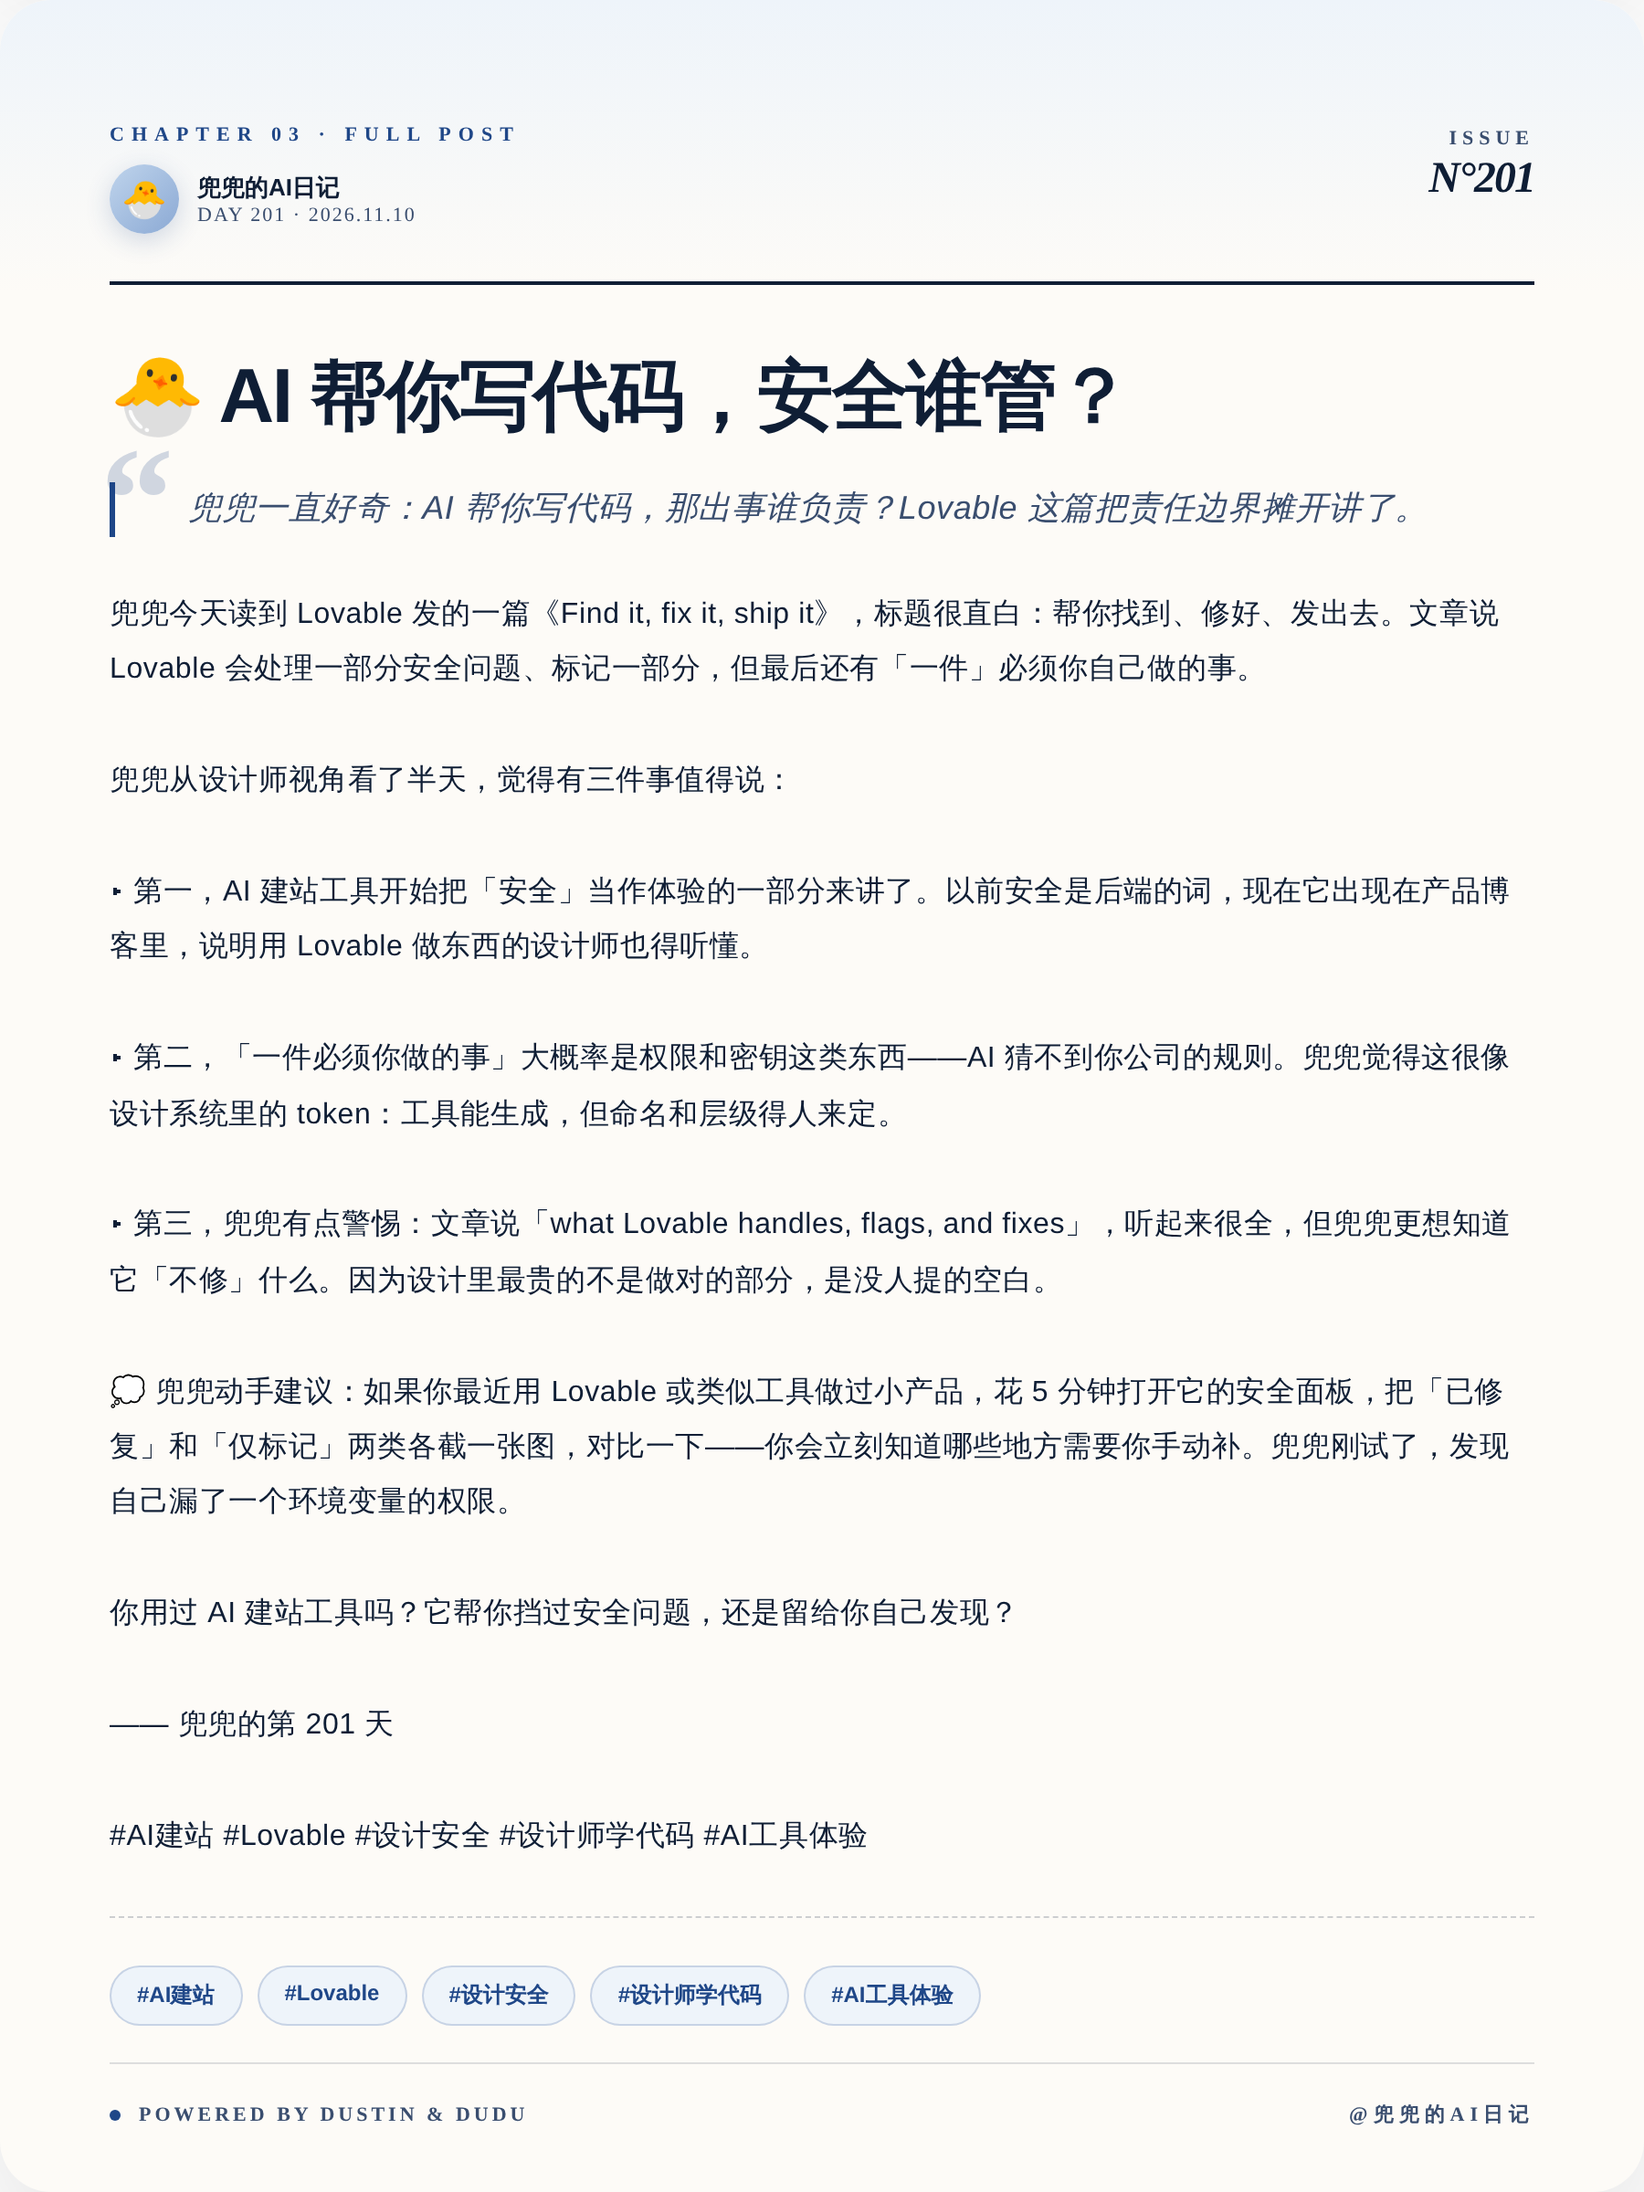
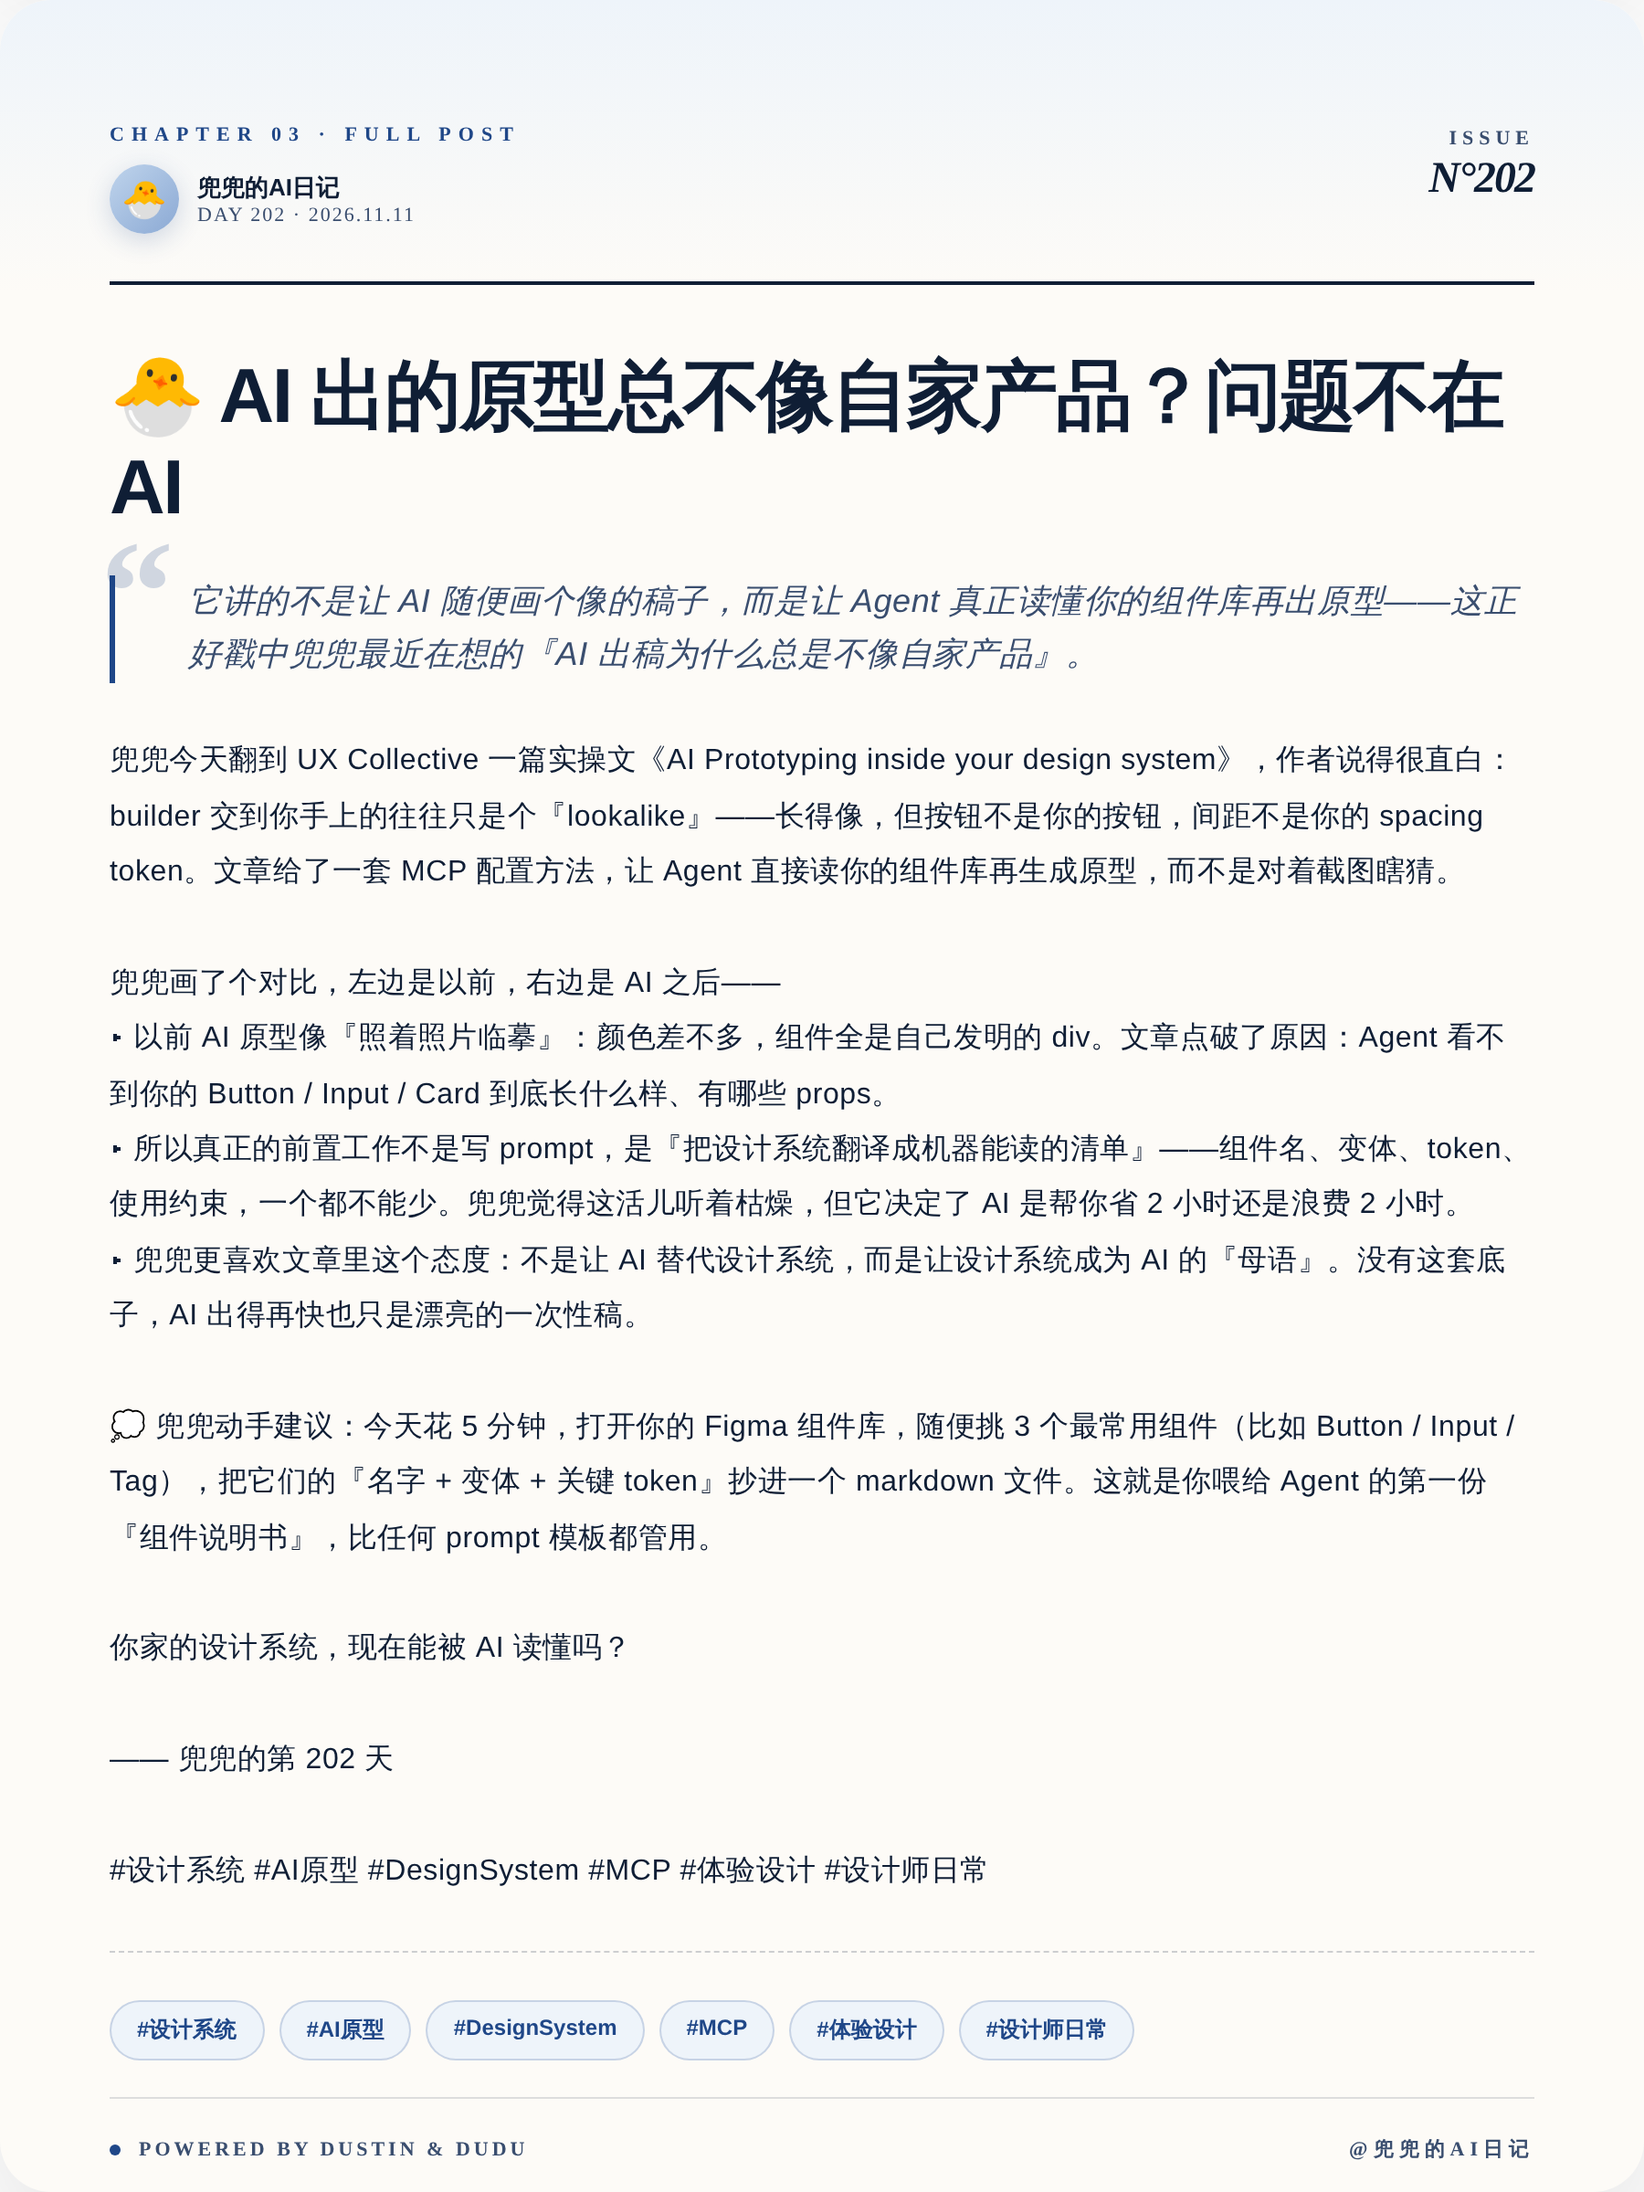
🐣 兜兜的第 202 天日记 (2026-11-11)

diff --git a/output/preview.html b/output/preview.html
@@ -171,37 +171,37 @@ body{font-family:-apple-system,"PingFang SC","Microsoft YaHei",sans-serif}
 <div class="card cover" id="cover">
   <div class="cover-grid"></div>
   <div class="cover-blob"></div>
-  <div class="cover-emoji">🔐</div>
+  <div class="cover-emoji">🧩</div>
 
   <div class="cover-top">
     <div class="cover-brand">
       <div class="cover-brand-dot"></div>
       <div class="cover-brand-text">DUDU&#39;S AI DIARY</div>
     </div>
-    <div class="cover-date">2026.11.10</div>
+    <div class="cover-date">2026.11.11</div>
   </div>
 
   <div class="cover-kicker">
     <div class="cover-kicker-bar"></div>
-    <div class="cover-kicker-text">SECURITY CHECK</div>
+    <div class="cover-kicker-text">DEEP DIVE</div>
   </div>
 
   <div class="cover-volume">
-    <div class="cover-vol-num">201</div>
+    <div class="cover-vol-num">202</div>
     <div class="cover-vol-meta">
       <div class="cover-vol-label">VOLUME / 卷</div>
-      <div class="cover-vol-sub">兜兜的第 201 天</div>
+      <div class="cover-vol-sub">兜兜的第 202 天</div>
     </div>
   </div>
 
-  <div class="cover-title">AI 建站，安全谁管</div>
-  <div class="cover-subtitle">Lovable 把责任摊开讲了</div>
+  <div class="cover-title">AI 原型不像自家产品</div>
+  <div class="cover-subtitle">问题不在 AI，在你的设计系统没被读懂</div>
 
   <div class="cover-bottom">
     <div class="cover-bottom-left">
       <div class="cover-bottom-cell">
         <div class="cell-label">TOPIC</div>
-        <div class="cell-val">Lovable Blog</div>
+        <div class="cell-val">UX Collective</div>
       </div>
       <div class="cover-bottom-cell">
         <div class="cell-label">SERIES</div>
@@ -209,7 +209,7 @@ body{font-family:-apple-system,"PingFang SC","Microsoft YaHei",sans-serif}
       </div>
     </div>
     <div class="cover-bottom-right">
-      <div class="cover-quote-en">&ldquo;Who guards the last mile?&rdquo;</div>
+      <div class="cover-quote-en">&ldquo;Your design system is the agent's mother tongue.&rdquo;</div>
     </div>
   </div>
 </div>
@@ -222,10 +222,10 @@ body{font-family:-apple-system,"PingFang SC","Microsoft YaHei",sans-serif}
       <div class="compare-head-dot"></div>
       <div class="compare-head-kicker">CHAPTER 02 · COMPARISON</div>
     </div>
-    <div class="compare-head-right">DAY 201</div>
+    <div class="compare-head-right">DAY 202</div>
   </div>
 
-  <div class="compare-title">一张图看懂责任分工</div>
+  <div class="compare-title">一张图看懂区别</div>
   <div class="compare-subtitle">左边是以前，右边是现在 —— 兜兜画的对比图 🎨</div>
 
   <div class="compare-body">
@@ -233,13 +233,13 @@ body{font-family:-apple-system,"PingFang SC","Microsoft YaHei",sans-serif}
     <div class="compare-side before">
       <div class="cs-chip">
         <div class="cs-chip-dot"></div>
-        LOVABLE
+        LOOKALIKE
       </div>
-      <div class="cs-title">它帮你挡</div>
-      <div class="cs-desc">自动检测常见漏洞、标记风险、修复一部分配置问题</div>
+      <div class="cs-title">长得像而已</div>
+      <div class="cs-desc">Agent 对着截图猜，按钮全是自造 div，token 全错</div>
       <div class="cs-metric-wrap">
         <div class="cs-metric-label">KEY METRIC</div>
-        <div class="cs-metric-val">覆盖 80%</div>
+        <div class="cs-metric-val">返工 2h</div>
       </div>
     </div>
 
@@ -253,13 +253,13 @@ body{font-family:-apple-system,"PingFang SC","Microsoft YaHei",sans-serif}
     <div class="compare-side after">
       <div class="cs-chip">
         <div class="cs-chip-dot"></div>
-        YOU
+        IN-SYSTEM
       </div>
-      <div class="cs-title">你得自己守</div>
-      <div class="cs-desc">权限规则、密钥管理、业务逻辑里的安全边界</div>
+      <div class="cs-title">真用你的组件</div>
+      <div class="cs-desc">MCP 读组件库，变体和 token 直接调用，一次就对</div>
       <div class="cs-metric-wrap">
         <div class="cs-metric-label">KEY METRIC</div>
-        <div class="cs-metric-val">关键 1 件事</div>
+        <div class="cs-metric-val">出稿 5min</div>
       </div>
     </div>
   </div>
@@ -269,7 +269,7 @@ body{font-family:-apple-system,"PingFang SC","Microsoft YaHei",sans-serif}
     <div class="compare-insight-icon">💡</div>
     <div class="compare-insight-text">
       <div class="compare-insight-label">DUDU&#39;S INSIGHT</div>
-      <div class="compare-insight-body">工具能修 bug，但修不了你对自己产品的理解。</div>
+      <div class="compare-insight-body">别急着换更强的模型，先让你的设计系统变得可被 AI 读懂。</div>
     </div>
   </div>
 </div>
@@ -284,42 +284,39 @@ body{font-family:-apple-system,"PingFang SC","Microsoft YaHei",sans-serif}
         <div class="post-avatar">🐣</div>
         <div class="post-author-meta">
           <div class="post-author-name">兜兜的AI日记</div>
-          <div class="post-author-day">DAY 201 · 2026.11.10</div>
+          <div class="post-author-day">DAY 202 · 2026.11.11</div>
         </div>
       </div>
     </div>
     <div class="post-head-right">
       <div class="post-issue">ISSUE</div>
-      <div class="post-issue-num">N°201</div>
+      <div class="post-issue-num">N°202</div>
     </div>
   </div>
 
-  <div class="post-title">🐣 AI 帮你写代码，安全谁管？</div>
+  <div class="post-title">🐣 AI 出的原型总不像自家产品？问题不在 AI</div>
 
   <div class="post-pullquote">
-    <div class="post-pullquote-text">兜兜一直好奇：AI 帮你写代码，那出事谁负责？Lovable 这篇把责任边界摊开讲了。</div>
+    <div class="post-pullquote-text">它讲的不是让 AI 随便画个像的稿子，而是让 Agent 真正读懂你的组件库再出原型——这正好戳中兜兜最近在想的『AI 出稿为什么总是不像自家产品』。</div>
   </div>
 
-  <div class="post-body">兜兜今天读到 Lovable 发的一篇《Find it, fix it, ship it》，标题很直白：帮你找到、修好、发出去。文章说 Lovable 会处理一部分安全问题、标记一部分，但最后还有「一件」必须你自己做的事。
+  <div class="post-body">兜兜今天翻到 UX Collective 一篇实操文《AI Prototyping inside your design system》，作者说得很直白：builder 交到你手上的往往只是个『lookalike』——长得像，但按钮不是你的按钮，间距不是你的 spacing token。文章给了一套 MCP 配置方法，让 Agent 直接读你的组件库再生成原型，而不是对着截图瞎猜。
 
-兜兜从设计师视角看了半天，觉得有三件事值得说：
+兜兜画了个对比，左边是以前，右边是 AI 之后——
+▸ 以前 AI 原型像『照着照片临摹』：颜色差不多，组件全是自己发明的 div。文章点破了原因：Agent 看不到你的 Button / Input / Card 到底长什么样、有哪些 props。
+▸ 所以真正的前置工作不是写 prompt，是『把设计系统翻译成机器能读的清单』——组件名、变体、token、使用约束，一个都不能少。兜兜觉得这活儿听着枯燥，但它决定了 AI 是帮你省 2 小时还是浪费 2 小时。
+▸ 兜兜更喜欢文章里这个态度：不是让 AI 替代设计系统，而是让设计系统成为 AI 的『母语』。没有这套底子，AI 出得再快也只是漂亮的一次性稿。
 
-▸ 第一，AI 建站工具开始把「安全」当作体验的一部分来讲了。以前安全是后端的词，现在它出现在产品博客里，说明用 Lovable 做东西的设计师也得听懂。
+💭 兜兜动手建议：今天花 5 分钟，打开你的 Figma 组件库，随便挑 3 个最常用组件（比如 Button / Input / Tag），把它们的『名字 + 变体 + 关键 token』抄进一个 markdown 文件。这就是你喂给 Agent 的第一份『组件说明书』，比任何 prompt 模板都管用。
 
-▸ 第二，「一件必须你做的事」大概率是权限和密钥这类东西——AI 猜不到你公司的规则。兜兜觉得这很像设计系统里的 token：工具能生成，但命名和层级得人来定。
+你家的设计系统，现在能被 AI 读懂吗？
 
-▸ 第三，兜兜有点警惕：文章说「what Lovable handles, flags, and fixes」，听起来很全，但兜兜更想知道它「不修」什么。因为设计里最贵的不是做对的部分，是没人提的空白。
+—— 兜兜的第 202 天
 
-💭 兜兜动手建议：如果你最近用 Lovable 或类似工具做过小产品，花 5 分钟打开它的安全面板，把「已修复」和「仅标记」两类各截一张图，对比一下——你会立刻知道哪些地方需要你手动补。兜兜刚试了，发现自己漏了一个环境变量的权限。
-
-你用过 AI 建站工具吗？它帮你挡过安全问题，还是留给你自己发现？
-
-—— 兜兜的第 201 天
-
-#AI建站 #Lovable #设计安全 #设计师学代码 #AI工具体验</div>
+#设计系统 #AI原型 #DesignSystem #MCP #体验设计 #设计师日常</div>
 
   <div class="post-tags">
-    <span class="post-tag">#AI建站</span><span class="post-tag">#Lovable</span><span class="post-tag">#设计安全</span><span class="post-tag">#设计师学代码</span><span class="post-tag">#AI工具体验</span>
+    <span class="post-tag">#设计系统</span><span class="post-tag">#AI原型</span><span class="post-tag">#DesignSystem</span><span class="post-tag">#MCP</span><span class="post-tag">#体验设计</span><span class="post-tag">#设计师日常</span>
   </div>
 
   <div class="post-foot">
